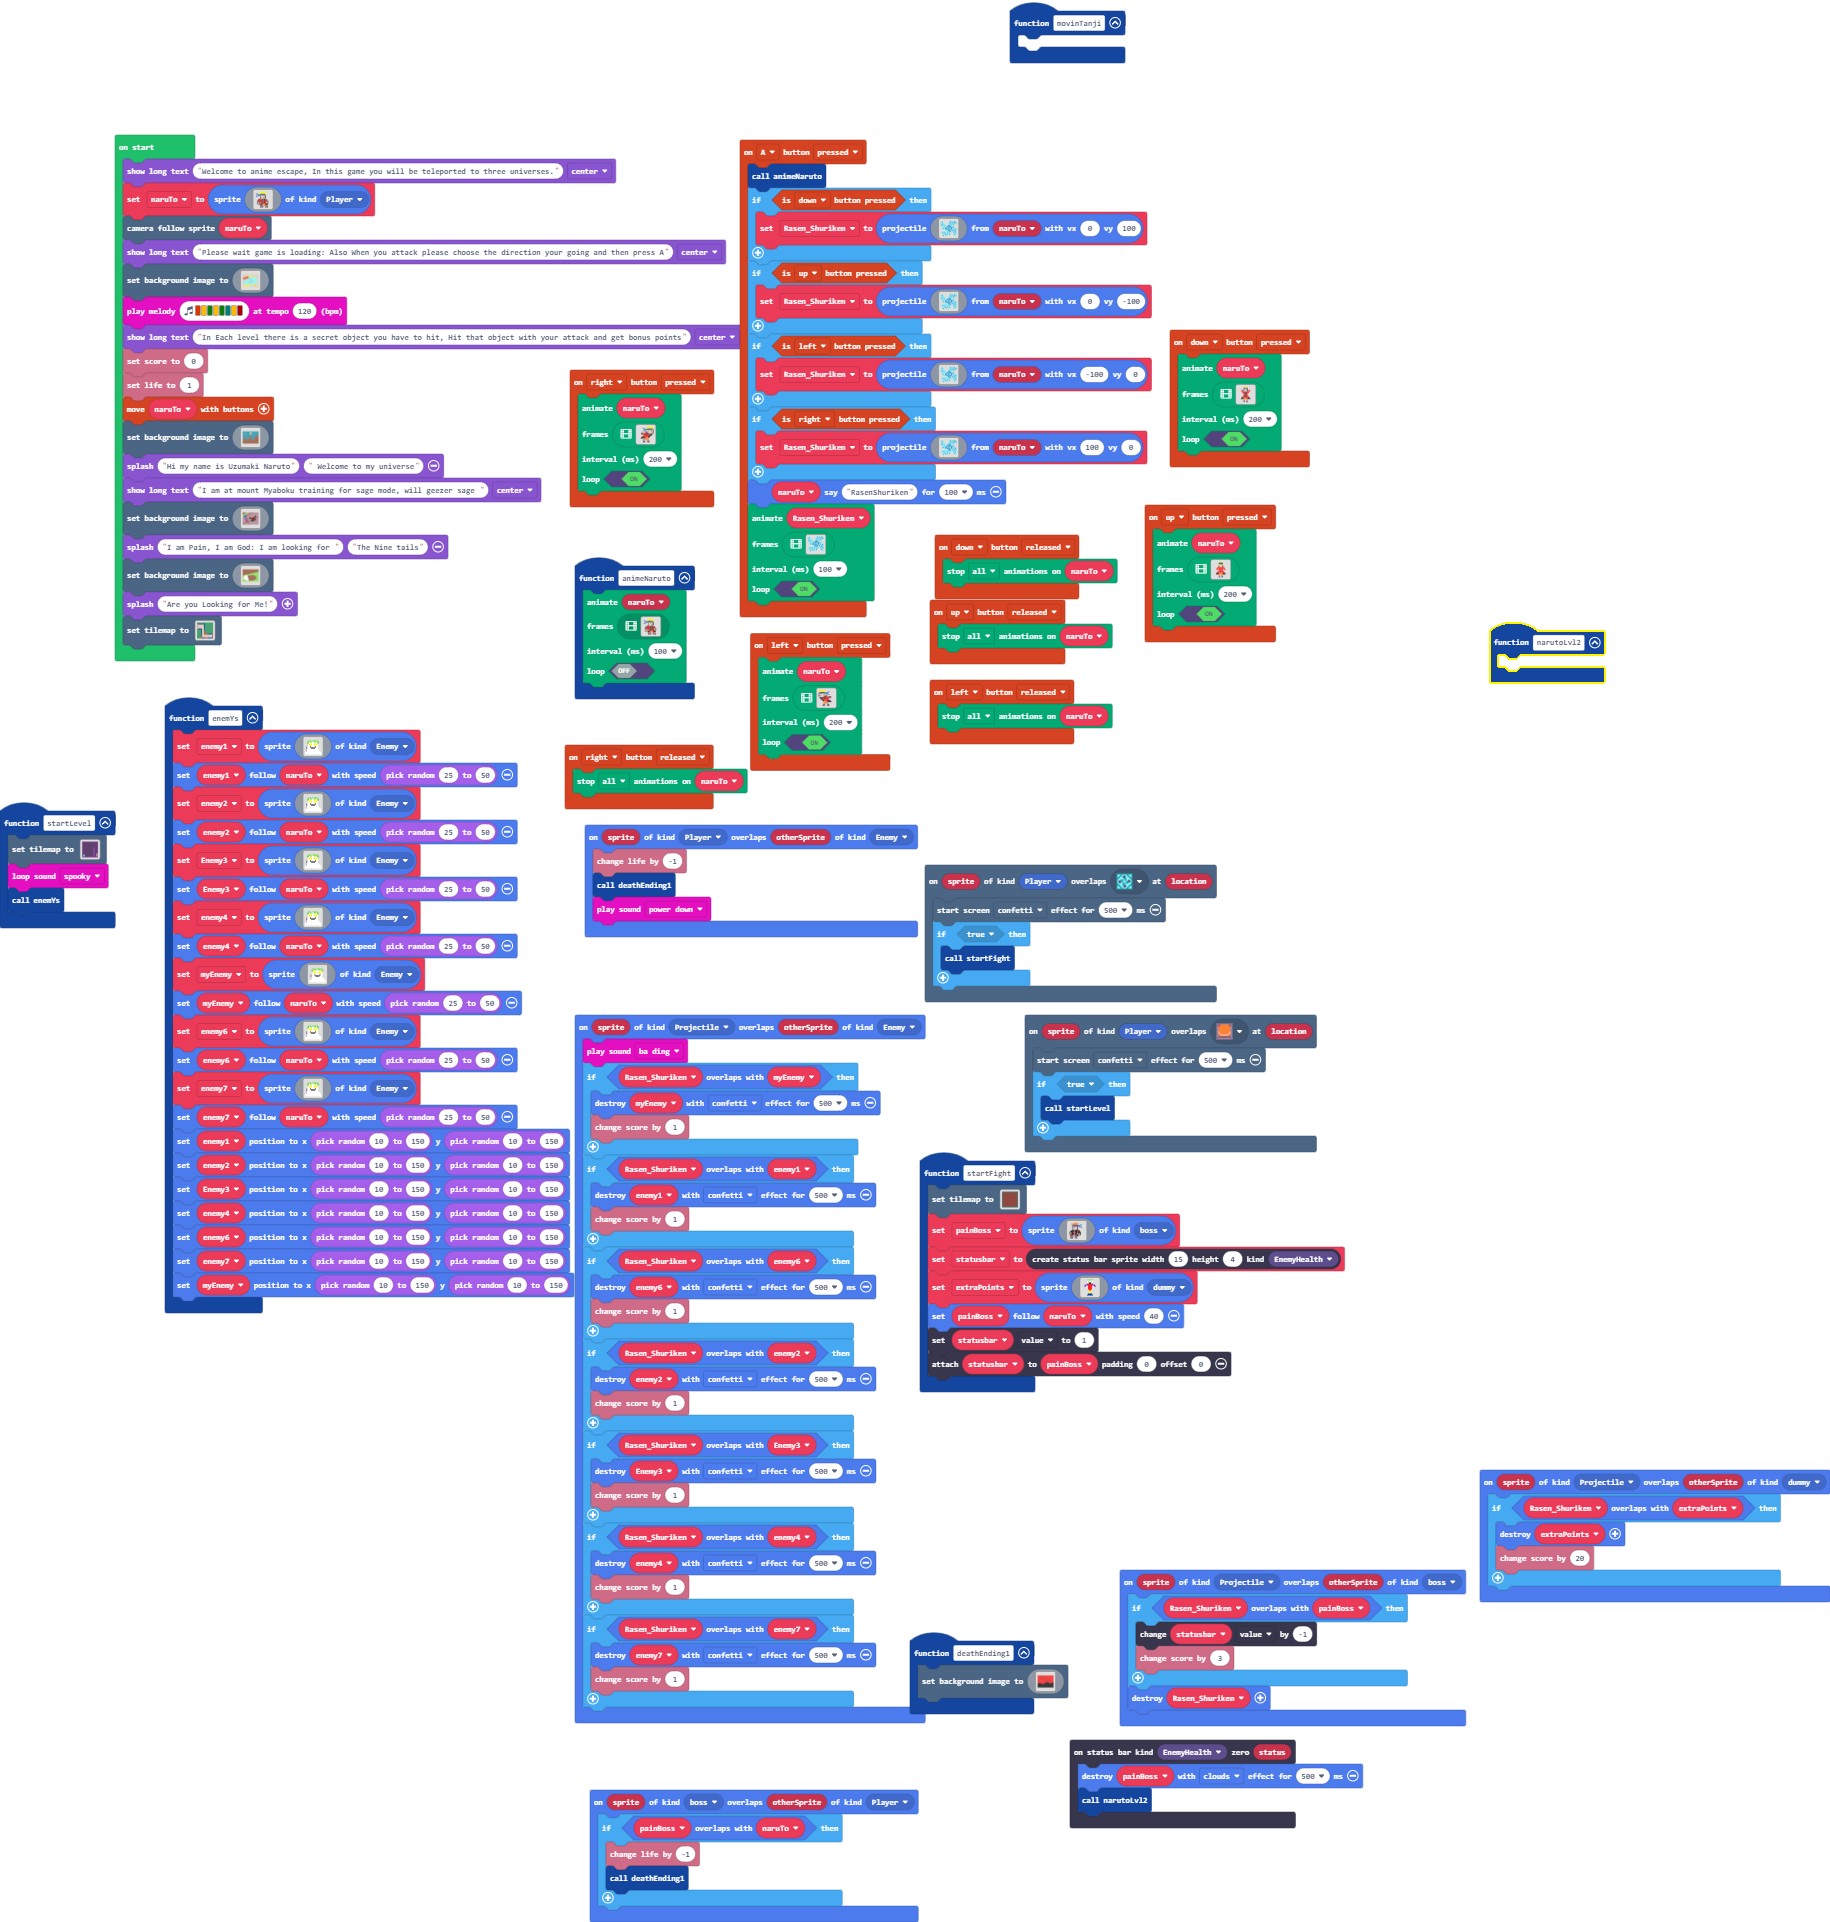
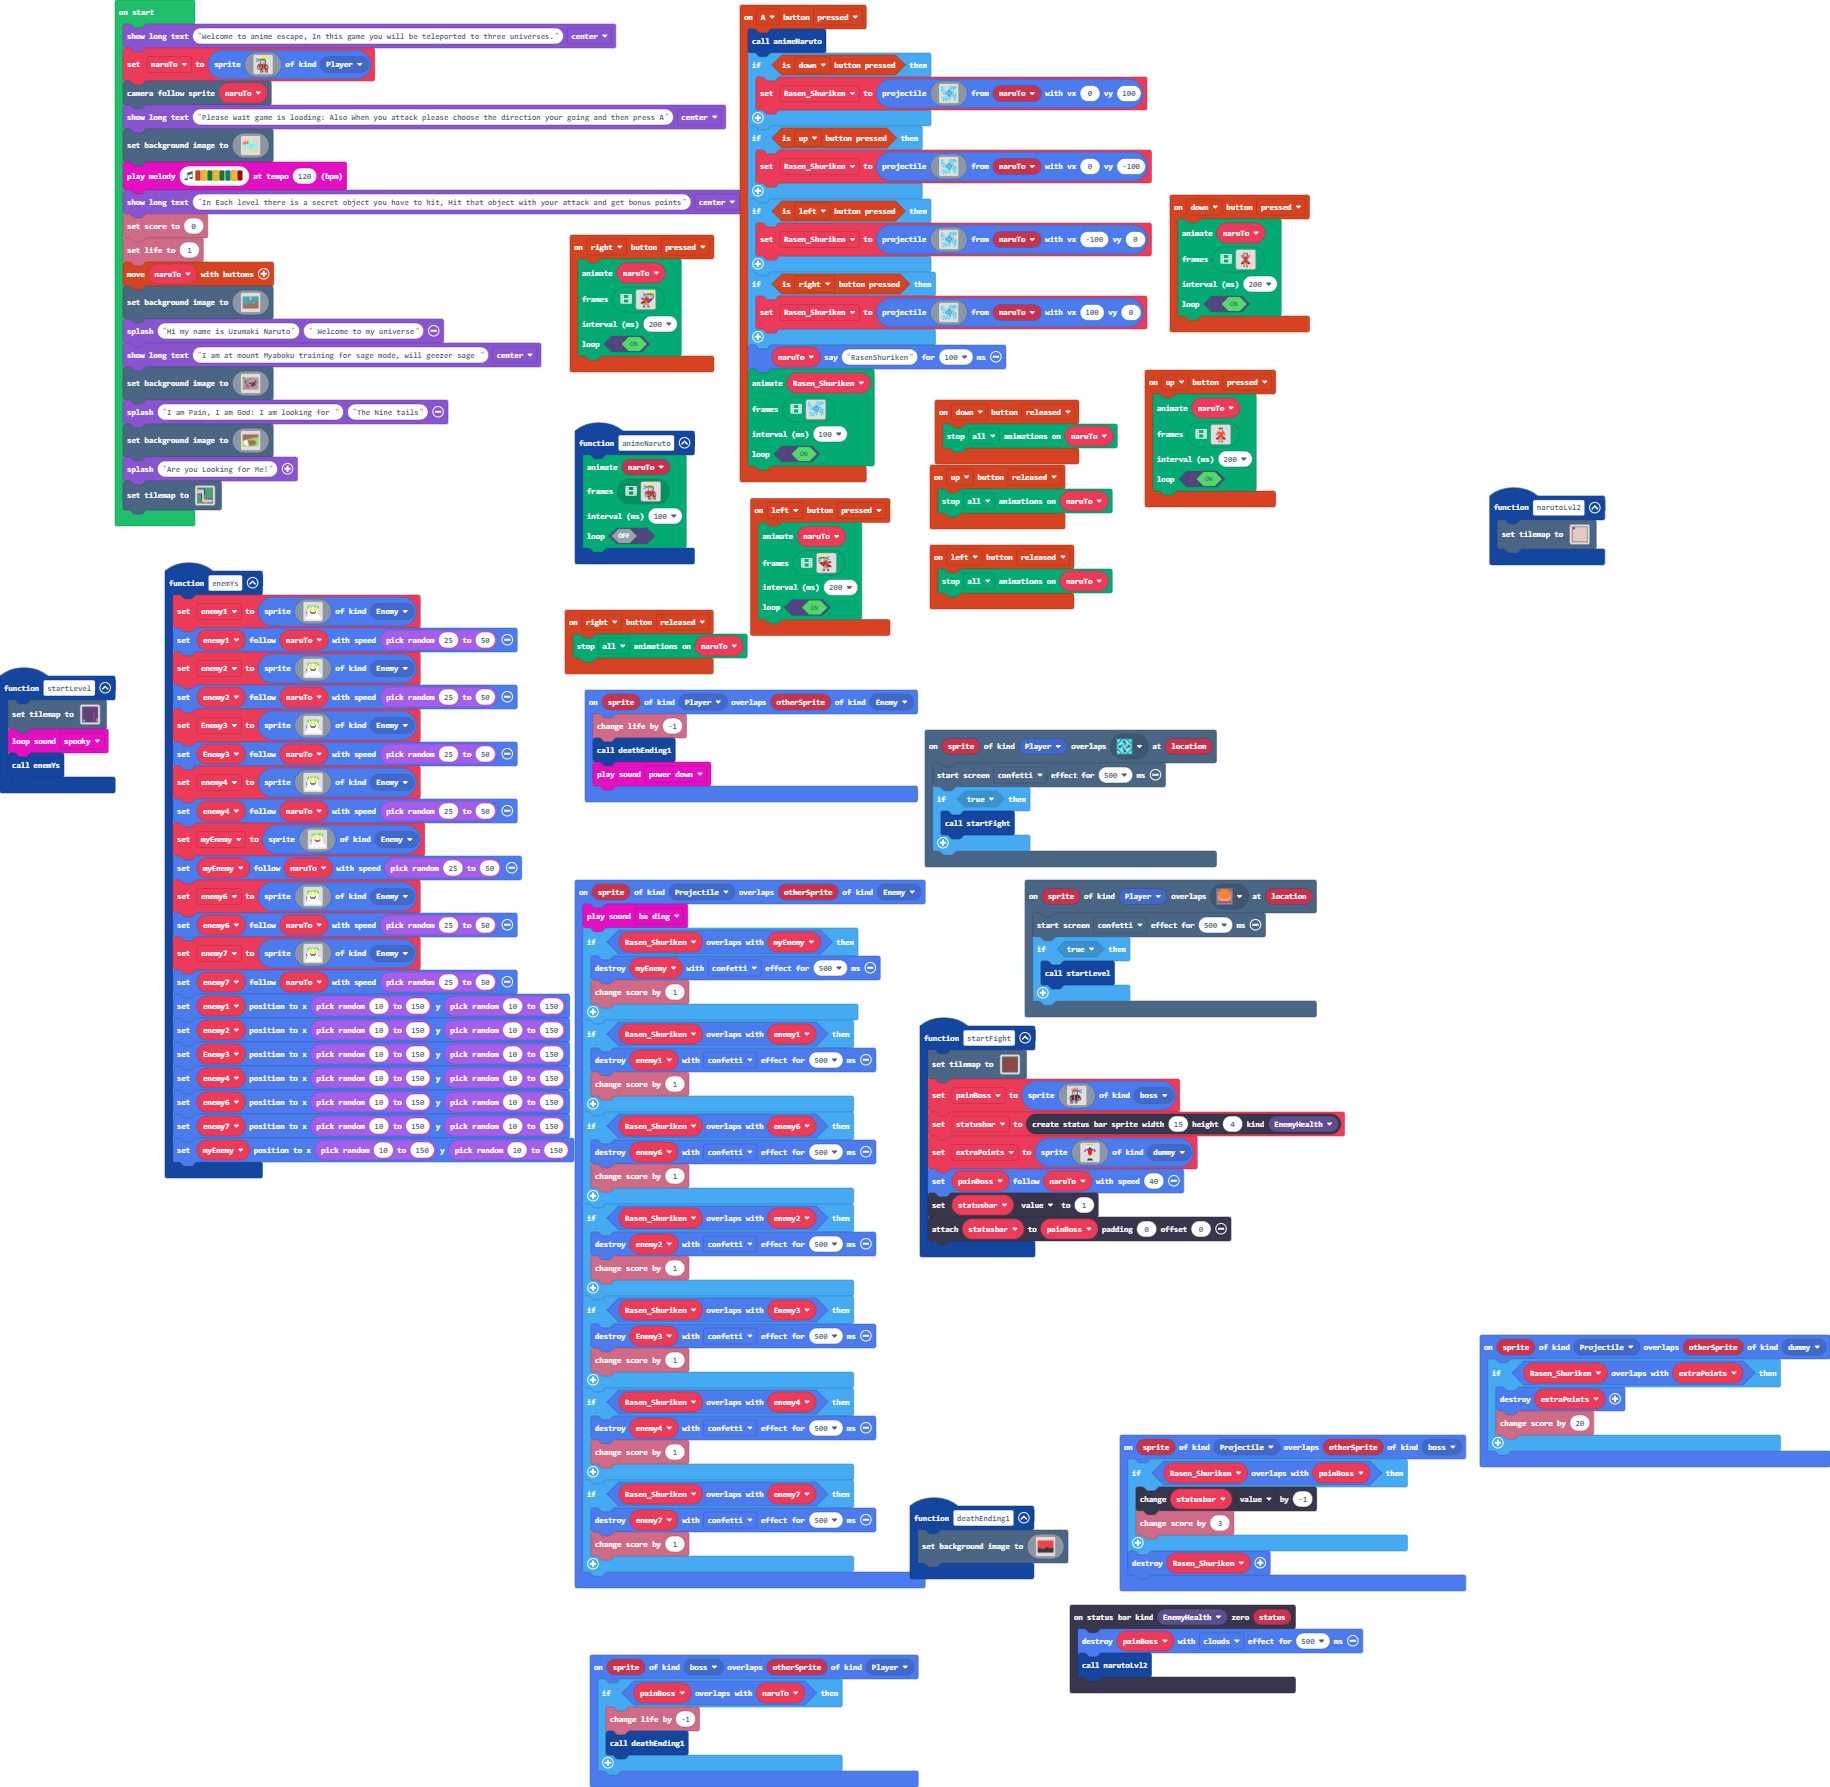
Update main.blocks, main.ts, tilemap.g.jres, tilemap.g.ts

diff --git a/tilemap.g.ts b/tilemap.g.ts
@@ -22,6 +22,10 @@ namespace myTiles {
     export const tile10 = image.ofBuffer(hex``);
     //% fixedInstance jres blockIdentity=images._tile
     export const tile9 = image.ofBuffer(hex``);
+    //% fixedInstance jres blockIdentity=images._tile
+    export const tile11 = image.ofBuffer(hex``);
+    //% fixedInstance jres blockIdentity=images._tile
+    export const tile12 = image.ofBuffer(hex``);
 
     helpers._registerFactory("tilemap", function(name: string) {
         switch(helpers.stringTrim(name)) {
@@ -576,6 +580,25 @@ namespace myTiles {
 . . . . . . . . . . . . . . . . 
 . . . . . . . . . . . . . . . . 
 `, [myTiles.transparency16], TileScale.Sixteen);
+            case "level30":
+            case "level30":return tiles.createTilemap(hex`1000100003030303030303030303030303030303030101040404040404040404040404030301010404040404040404040404040303040404040404040404040404040403030404040404040404040404040404030304040404040404040404040404040303040404040404040404040404040403030404040404040404040404040404030304040404040404040404040404040303040404040404040404040404040403030404040404040404040404040404030304040404040404040404040404040303040404040404040404040404040403030404040404040404040404040404030304040404040404040404040404040303030303030303030303030303030303`, img`
+. . . . . . . . . . . . . . . . 
+. . . . . . . . . . . . . . . . 
+. . . . . . . . . . . . . . . . 
+. . . . . . . . . . . . . . . . 
+. . . . . . . . . . . . . . . . 
+. . . . . . . . . . . . . . . . 
+. . . . . . . . . . . . . . . . 
+. . . . . . . . . . . . . . . . 
+. . . . . . . . . . . . . . . . 
+. . . . . . . . . . . . . . . . 
+. . . . . . . . . . . . . . . . 
+. . . . . . . . . . . . . . . . 
+. . . . . . . . . . . . . . . . 
+. . . . . . . . . . . . . . . . 
+. . . . . . . . . . . . . . . . 
+. . . . . . . . . . . . . . . . 
+`, [myTiles.transparency16,myTiles.tile8,myTiles.tile11,sprites.castle.rock0,myTiles.tile12], TileScale.Sixteen);
         }
         return null;
     })
@@ -603,6 +626,10 @@ namespace myTiles {
             case "tile10":return tile10;
             case "myTile7":
             case "tile9":return tile9;
+            case "myTile9":
+            case "tile11":return tile11;
+            case "myTile10":
+            case "tile12":return tile12;
         }
         return null;
     })

diff --git a/main.ts b/main.ts
@@ -365,9 +365,6 @@ controller.right.onEvent(ControllerButtonEvent.Pressed, function () {
     true
     )
 })
-function movinTanji () {
-	
-}
 function animeNaruto () {
     animation.runImageAnimation(
     naruTo,
@@ -388,7 +385,7 @@ controller.down.onEvent(ControllerButtonEvent.Pressed, function () {
     )
 })
 function narutoLvl2 () {
-	
+    tiles.setTilemap(tilemap`level30`)
 }
 sprites.onOverlap(SpriteKind.Projectile, SpriteKind.boss, function (sprite, otherSprite) {
     if (Rasen_Shuriken.overlapsWith(painBoss)) {
